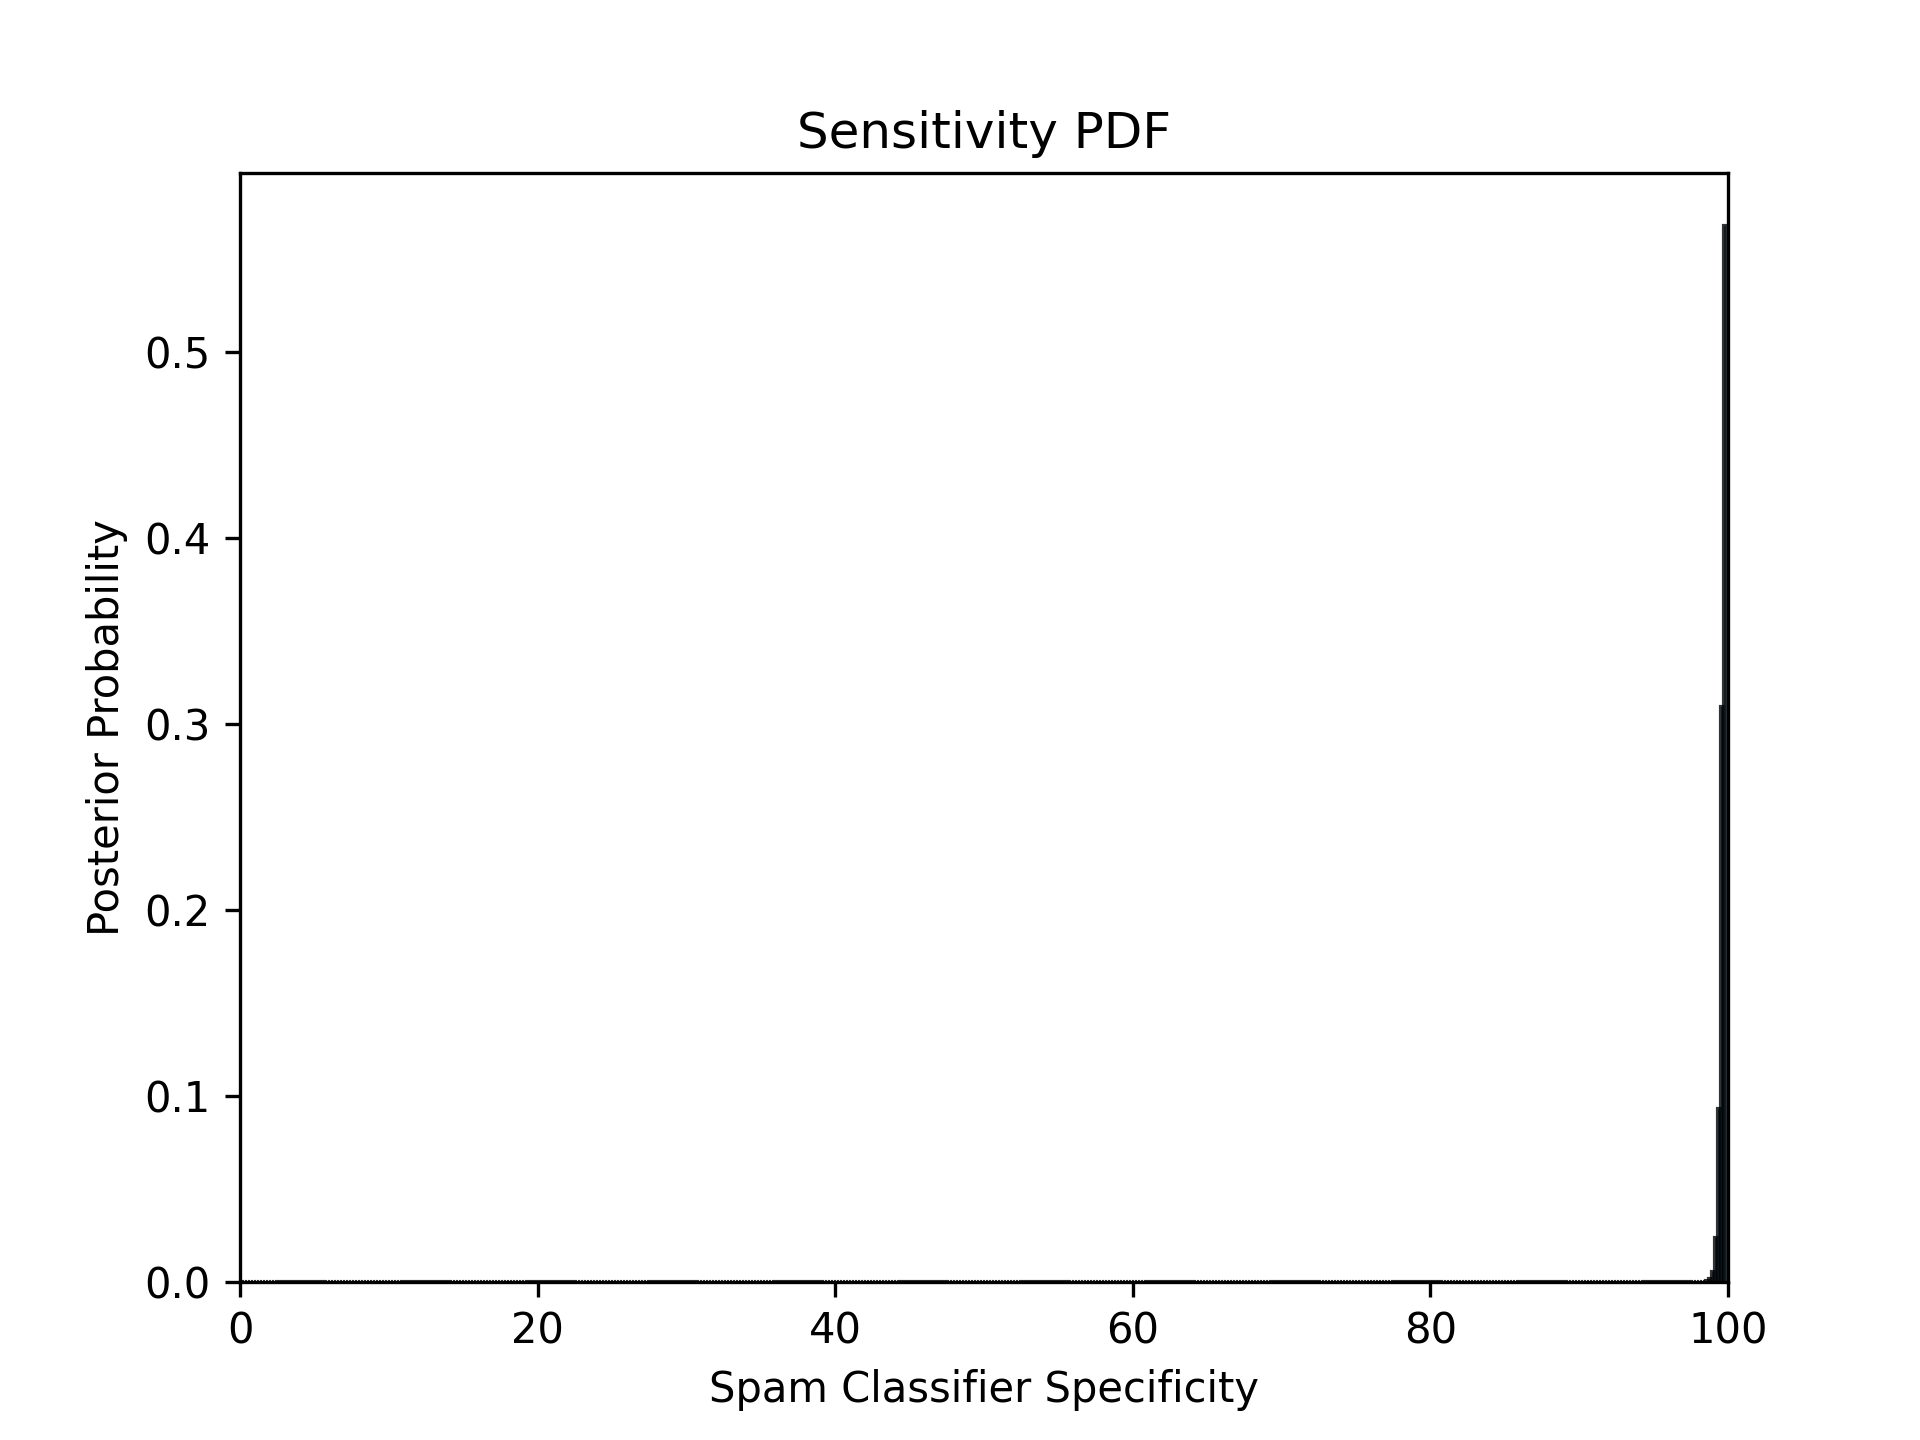
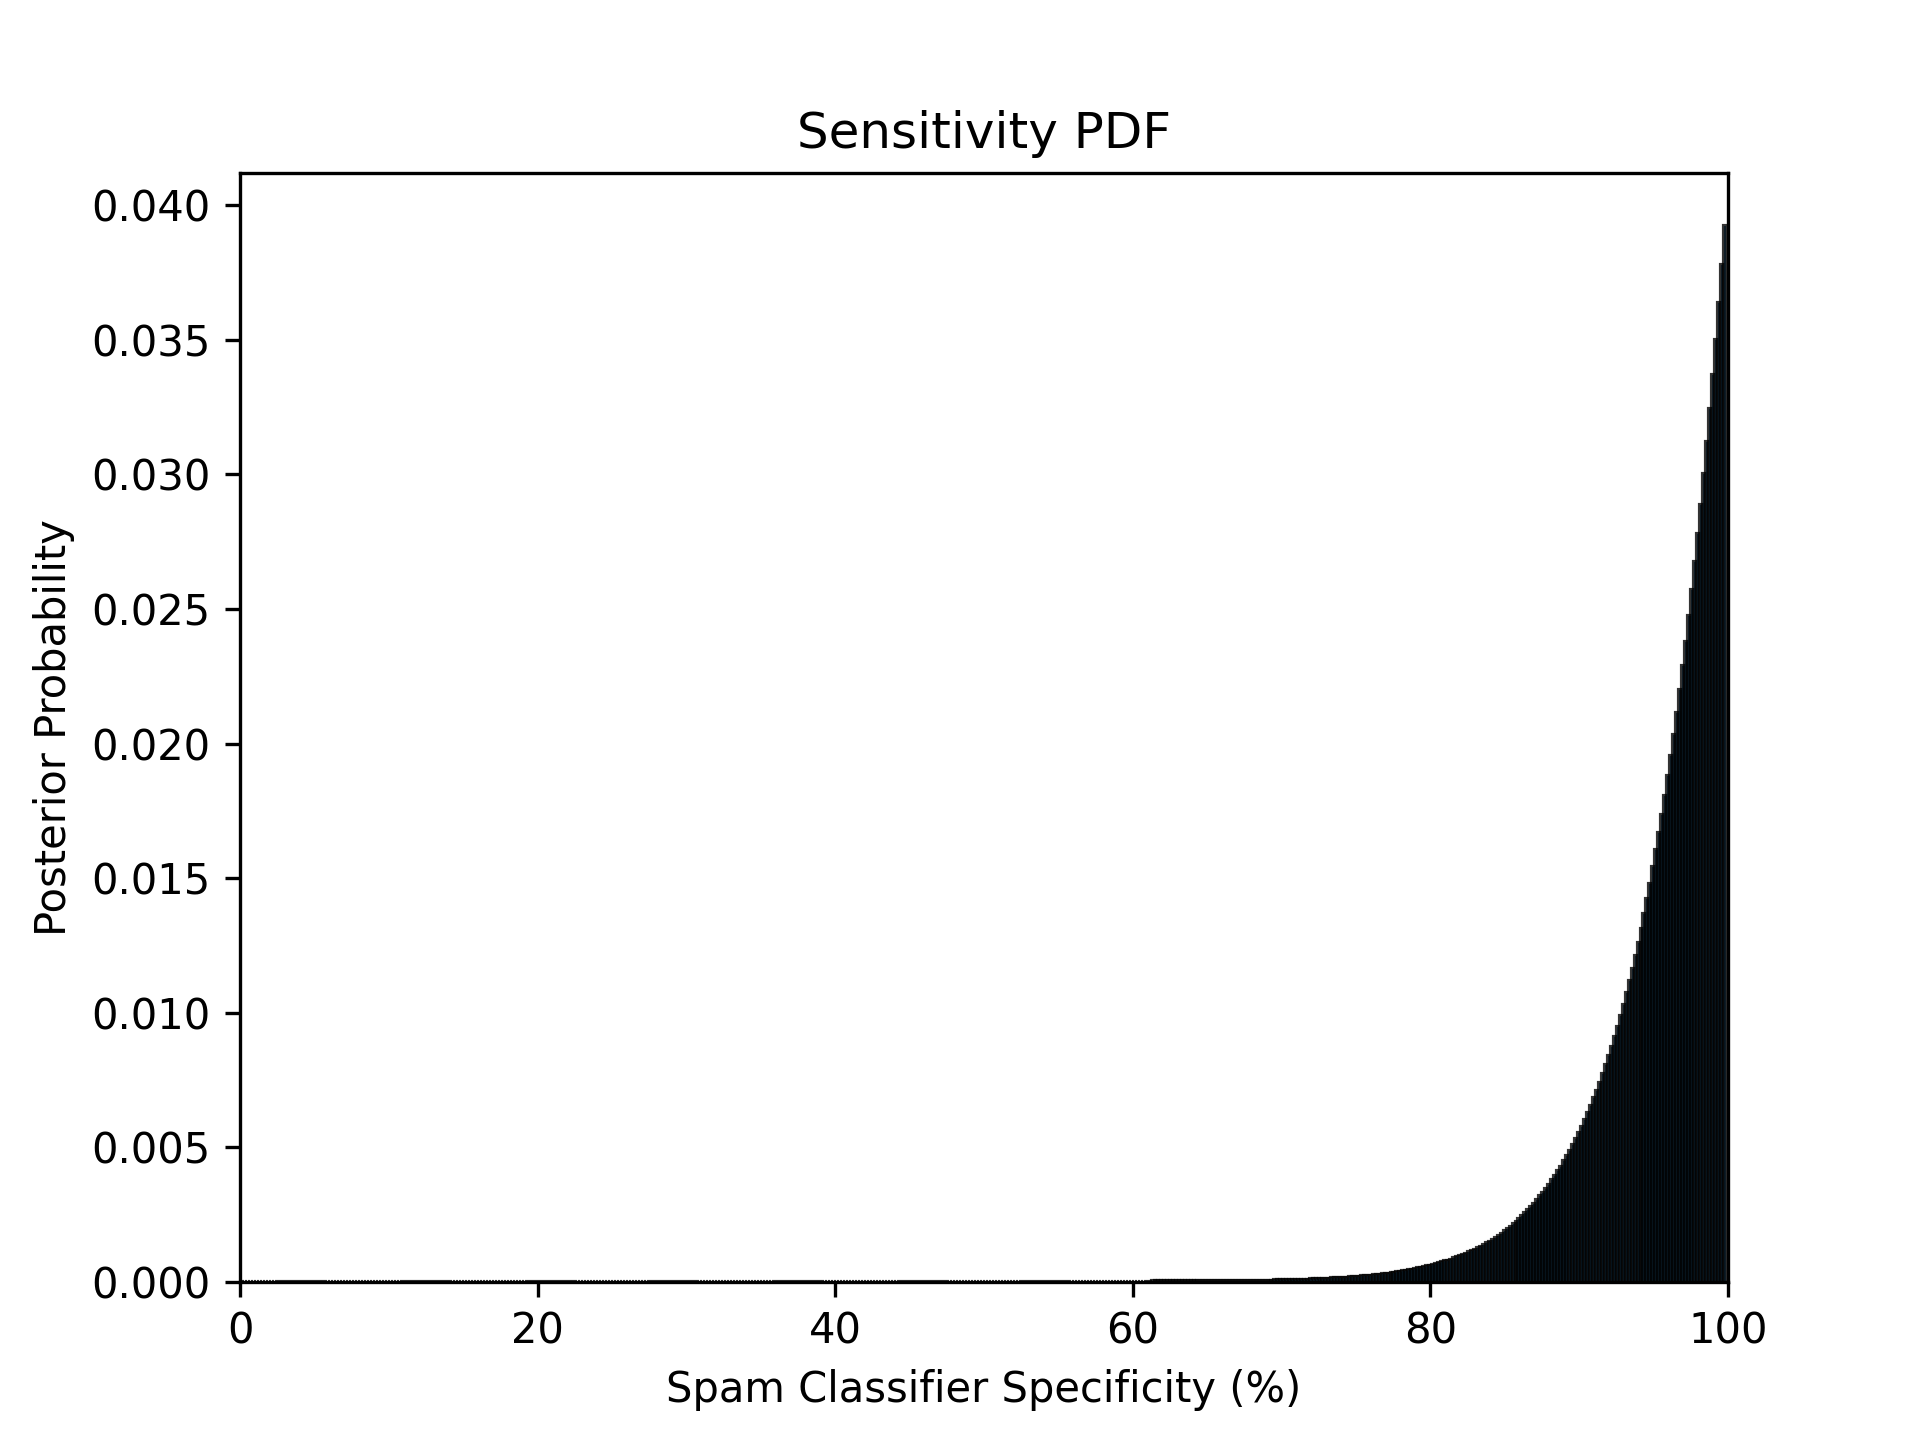
Added side-by-side sensitivity and specificity PDF generation

diff --git a/sensitivity_specificity.py b/sensitivity_specificity.py
@@ -9,6 +9,7 @@ import matplotlib.pyplot as plt
 import os
 import scipy.stats as stats
 from fractions import Fraction
+import warnings
 
 
 # custom errors
@@ -353,4 +354,102 @@ def pdf_generator(correctly_labeled: int, mislabeled: int, xlab: str, title: str
         plt.savefig(f"{title}.png", dpi=300)
     plt.show()
     return mode, (min_95, max_95)
+
+
+def together_pdfs(correctly_labeled_spam: int, mislabeled_spam: int, correctly_labeled_ham: int, mislabeled_ham: int,
+                  hypotheses: int = 100, save: bool = True) -> tuple[tuple[float, tuple[float, float]], tuple[float, tuple[float, float]]]:
+    os.chdir("/Users/NoahRipstein/PycharmProjects/Bayes email 2/visualizations")
+    fig, ax = plt.subplots(1, 2)
+    new_tick_labels = np.linspace(0, 100, 6, dtype=int)
+
+
+    # sensitivity
+    sensitivity_df, sensitivity_obj = binomial_df(hypotheses, correctly_labeled_spam + mislabeled_spam, correctly_labeled_spam)
+
+    ax[0].bar(range(len(sensitivity_df["posterior"])), sensitivity_df["posterior"], edgecolor="black", alpha=0.8)
+    ax[0].set_xlabel("Sensitivity (%)")
+    ax[0].set_ylabel("Posterior Probability")
+
+    ax[0].set_xlim([0, 100])
+    new_tick_positions = np.linspace(0, 1, 6) * len(sensitivity_df["posterior"])
+    ax[0].set_xticks(new_tick_positions)
+    ax[0].set_xticklabels(new_tick_labels)
+    # make it go from 0 to 100 instead of to 500
+    with warnings.catch_warnings():  # set xlab for left plot. not sure why set_xticks didn't work and I needed to do something that gave error warning, but I supressed it
+        warnings.simplefilter("ignore")
+
+
+    # specificity
+    specificity_df, specificity_obj = binomial_df(hypotheses, correctly_labeled_ham + mislabeled_ham, correctly_labeled_ham)
+    ax[1].bar(range(len(specificity_df["posterior"])), specificity_df["posterior"], edgecolor="black", alpha=0.8)
+    ax[1].set_xlabel("Specificity (%)")
+
+    ax[1].set_xlim([0, 100])
+    ax[1].set_xticks(new_tick_positions)
+    ax[1].set_xticklabels(new_tick_labels)
+    with warnings.catch_warnings():  # set xlab for right plot
+        warnings.simplefilter("ignore")
+
+
+
+    plt.tight_layout()
+    fig.suptitle("Spam Classifier Sensitivity and Specificity")
+    plt.subplots_adjust(top=0.9)  # adjust the bottom margin
+    if save:
+        plt.savefig(f"Spam Classifier Sensitivity and Specificity.png", dpi=300)
+    plt.show()
+
+    sensitivity_min_95, sensitivity_max_95 = confidence(sensitivity_df)
+    sensitivity_mode: float = sensitivity_df.iloc[sensitivity_obj.mode_index()]["hypothesis"]
+
+    specificity_min_95, specificity_max_95 = confidence(specificity_df)
+    specificity_mode: float = specificity_df.iloc[specificity_obj.mode_index()]["hypothesis"]
+
+    return (specificity_mode, (specificity_min_95, specificity_max_95)), (sensitivity_mode, (sensitivity_min_95, sensitivity_max_95))
+
+
+def together_pdfs_att2(correctly_labeled_spam: int, mislabeled_spam: int, correctly_labeled_ham: int, mislabeled_ham: int,
+                  hypotheses: int = 100, save: bool = True) -> tuple[tuple[float, tuple[float, float]], tuple[float, tuple[float, float]]]:
+    os.chdir("/Users/NoahRipstein/PycharmProjects/Bayes email 2/visualizations")
+    fig, ax = plt.subplots(1, 2)
+    new_tick_labels = np.linspace(0, 100, 6, dtype=int)
+
+    # sensitivity
+    sensitivity_df, sensitivity_obj = binomial_df(hypotheses, correctly_labeled_spam + mislabeled_spam, correctly_labeled_spam)
+
+    ax[0].bar(range(len(sensitivity_df["posterior"])), sensitivity_df["posterior"], edgecolor="black", alpha=0.8)
+    ax[0].set_xlabel("Sensitivity (%)")
+    ax[0].set_ylabel("Posterior Probability")
+
+    ax[0].set_xlim([0, 100])
+    # make it go from 0 to 100 instead of to 500
+    with warnings.catch_warnings():  # set xlab for left plot. not sure why set_xticks didn't work and I needed to do something that gave error warning, but I supressed it
+        warnings.simplefilter("ignore")
+        ax[0].set_xticklabels(new_tick_labels)
+
+    # specificity
+    specificity_df, specificity_obj = binomial_df(hypotheses, correctly_labeled_ham + mislabeled_ham, correctly_labeled_ham)
+    ax[1].bar(range(len(specificity_df["posterior"])), specificity_df["posterior"], edgecolor="black", alpha=0.8)
+    ax[1].set_xlabel("Specificity (%)")
+
+
+    with warnings.catch_warnings():  # set xlab for right plot
+        warnings.simplefilter("ignore")
+        ax[1].set_xticklabels(new_tick_labels)
+        ax[1].set_xlim([0, 100])
+
+    plt.tight_layout()
+    fig.suptitle("Spam Classifier Sensitivity and Specificity")
+    plt.subplots_adjust(top=0.9)  # adjust the bottom margin
+    if save:
+        plt.savefig(f"Spam Classifier Sensitivity and Specificity.png", dpi=300)
+    plt.show()
+
+    sensitivity_min_95, sensitivity_max_95 = confidence(sensitivity_df)
+    sensitivity_mode: float = sensitivity_df.iloc[sensitivity_obj.mode_index()]["hypothesis"]
+
+    specificity_min_95, specificity_max_95 = confidence(specificity_df)
+    specificity_mode: float = specificity_df.iloc[specificity_obj.mode_index()]["hypothesis"]
+
+    return (specificity_mode, (specificity_min_95, specificity_max_95)), (sensitivity_mode, (sensitivity_min_95, sensitivity_max_95))
 

diff --git a/main.py b/main.py
@@ -230,7 +230,7 @@ if __name__ == '__main__':
     # freq2 = train_n_rows(df2, num_rows=15000)  # 15000 will take a long time for quick demo but more => more accuracy
     # fileIO.save_freq(freq2)
 
-    test_dataset = with_word_set.tail(2000)  # testing dataset. testing on 2000 seems good
+    test_dataset = with_word_set.tail(50)  # testing dataset. testing on 2000 seems good
 
     classified = posterior_col(test_dataset, word_freq)
     # comparison = compare_score(classified)
@@ -250,8 +250,8 @@ if __name__ == '__main__':
     word_cloud.ratio_cloud(word_freq)
 
     # sensitivity and specificity mode, 95% confidence interval, generate and save plots
-    sens_mode, (sens_95hi, sens_95hi) = sensitivity_specificity.pdf_generator(spam_result[0], spam_result[1], xlab="Spam Classifier Specificity", title="Sensitivity PDF", hypotheses=500)
-    spec_mode, (spec_95hi, spec_95hi) = sensitivity_specificity.pdf_generator(ham_result[1], ham_result[0], xlab="Spam Classifier Sensitivity", title="Specificity PDF", hypotheses=500)
+    # sens_mode, (sens_95hi, sens_95hi) = sensitivity_specificity.pdf_generator(spam_result[0], spam_result[1], xlab="Spam Classifier Specificity (%)", title="Sensitivity PDF", hypotheses=500)
+    # spec_mode, (spec_95hi, spec_95hi) = sensitivity_specificity.pdf_generator(ham_result[1], ham_result[0], xlab="Spam Classifier Sensitivity (%)", title="Specificity PDF", hypotheses=500)
 
-
+    sensitivity_specificity.together_pdfs(spam_result[0], spam_result[1], ham_result[1], ham_result[0], save=True, hypotheses=500)
 
